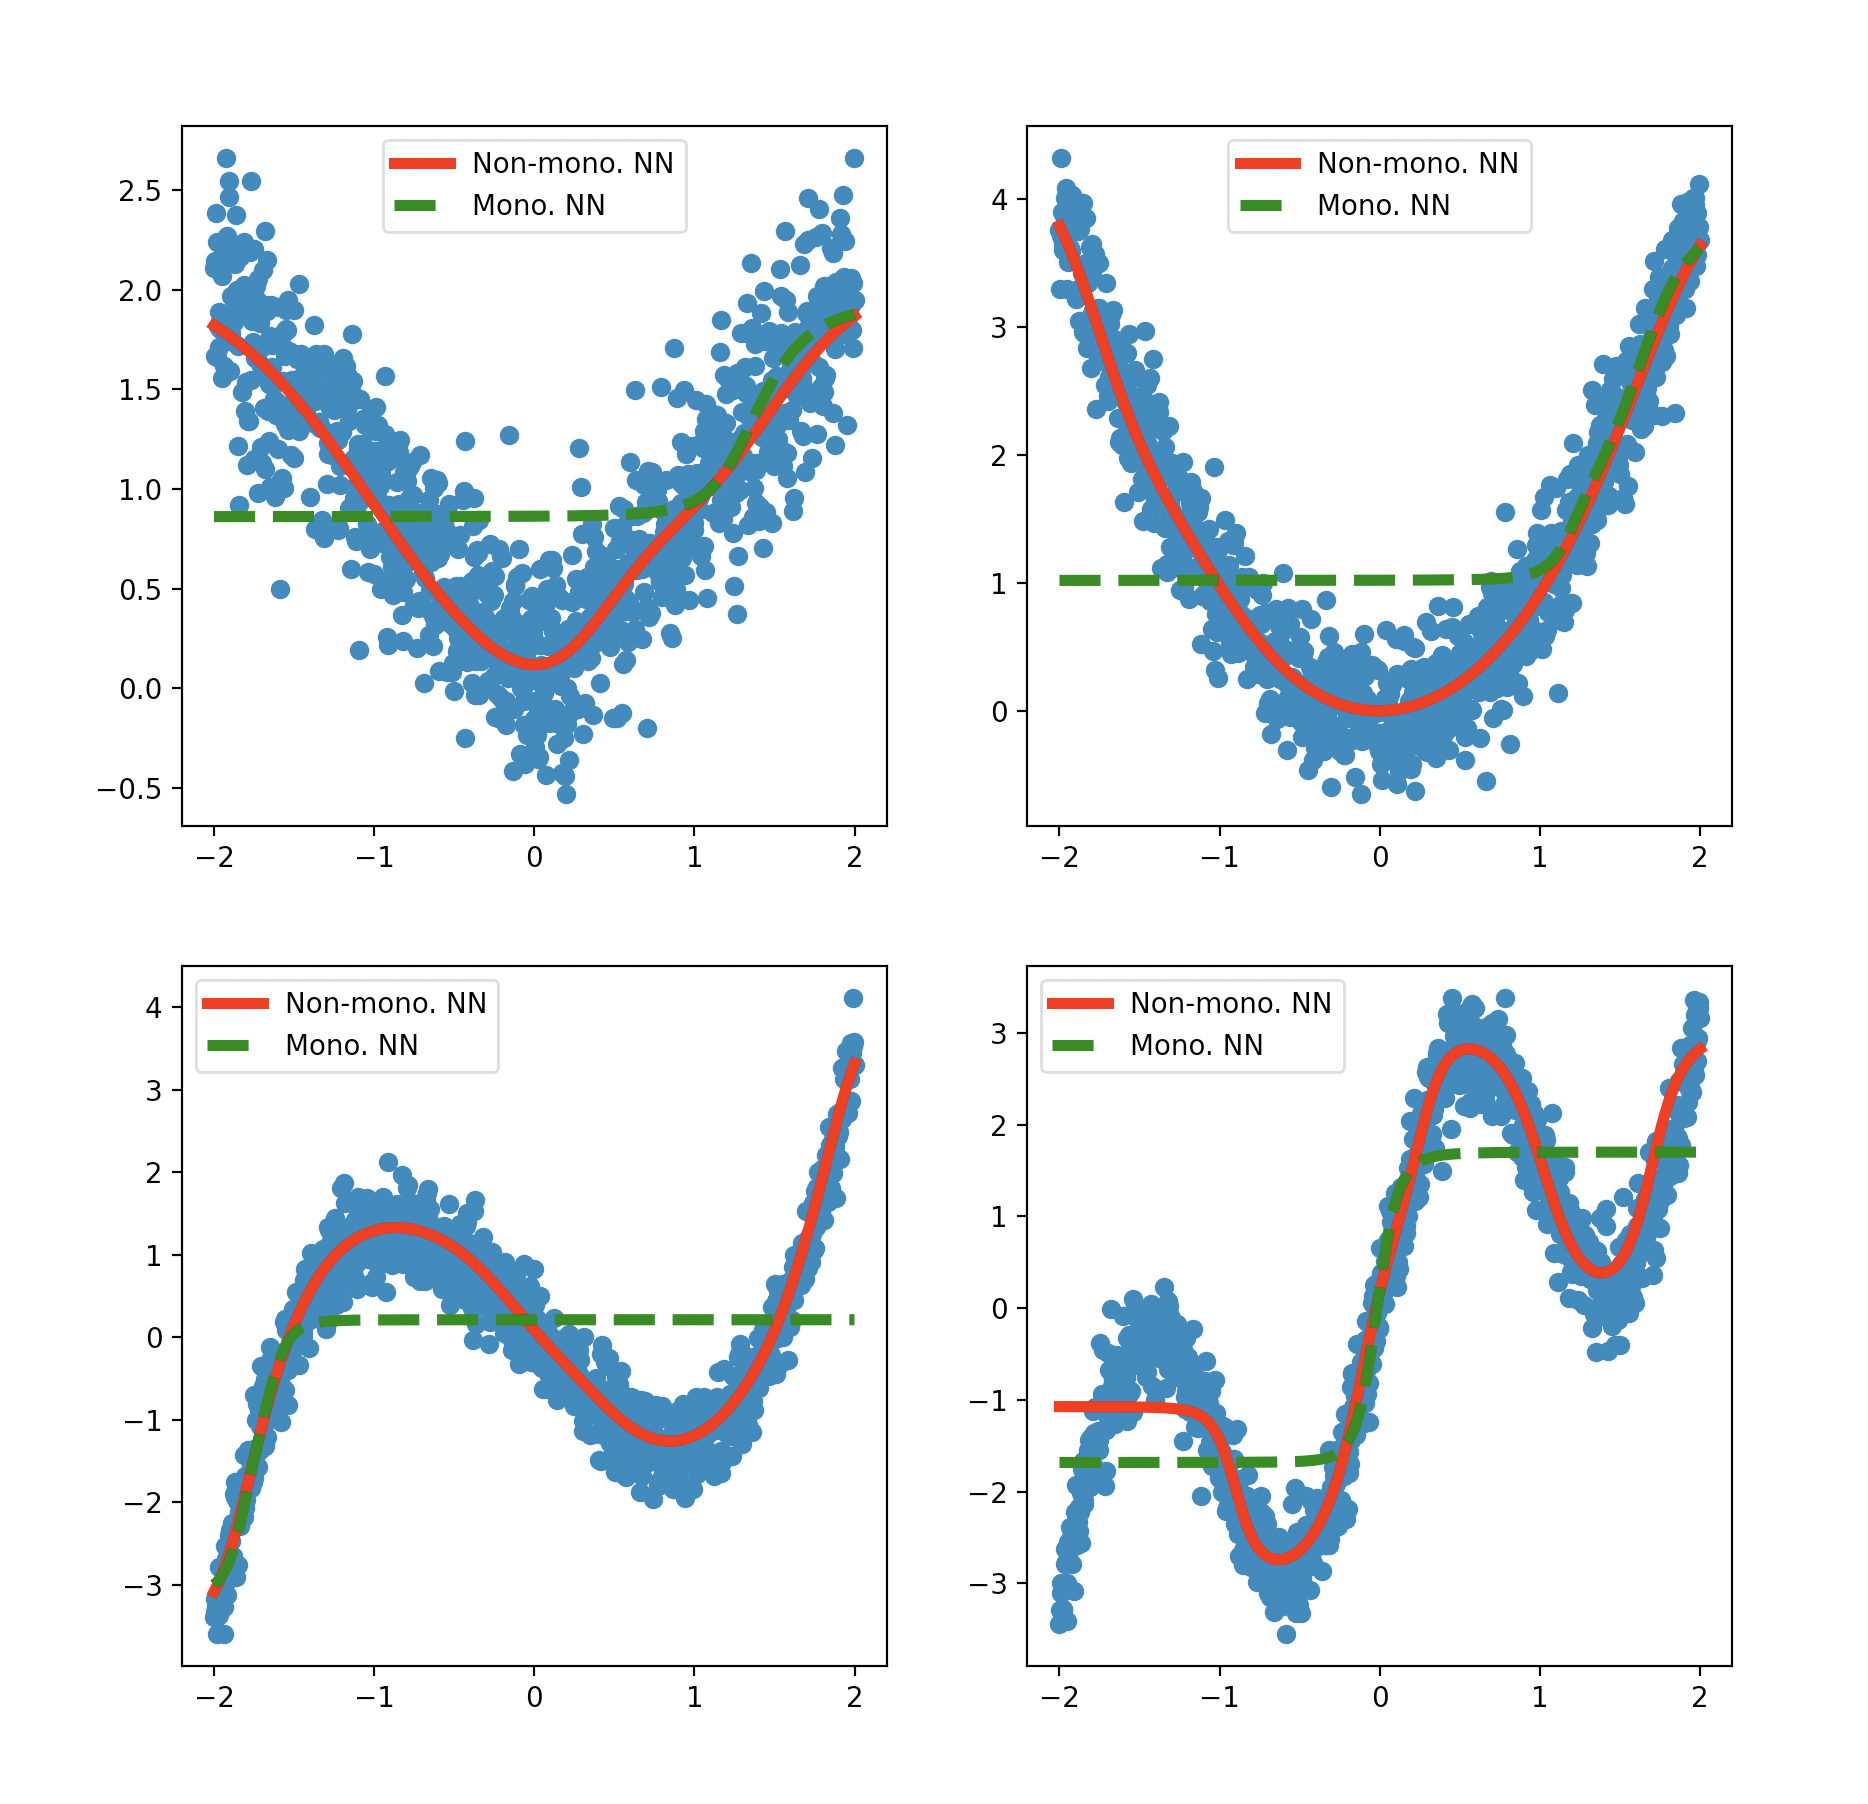
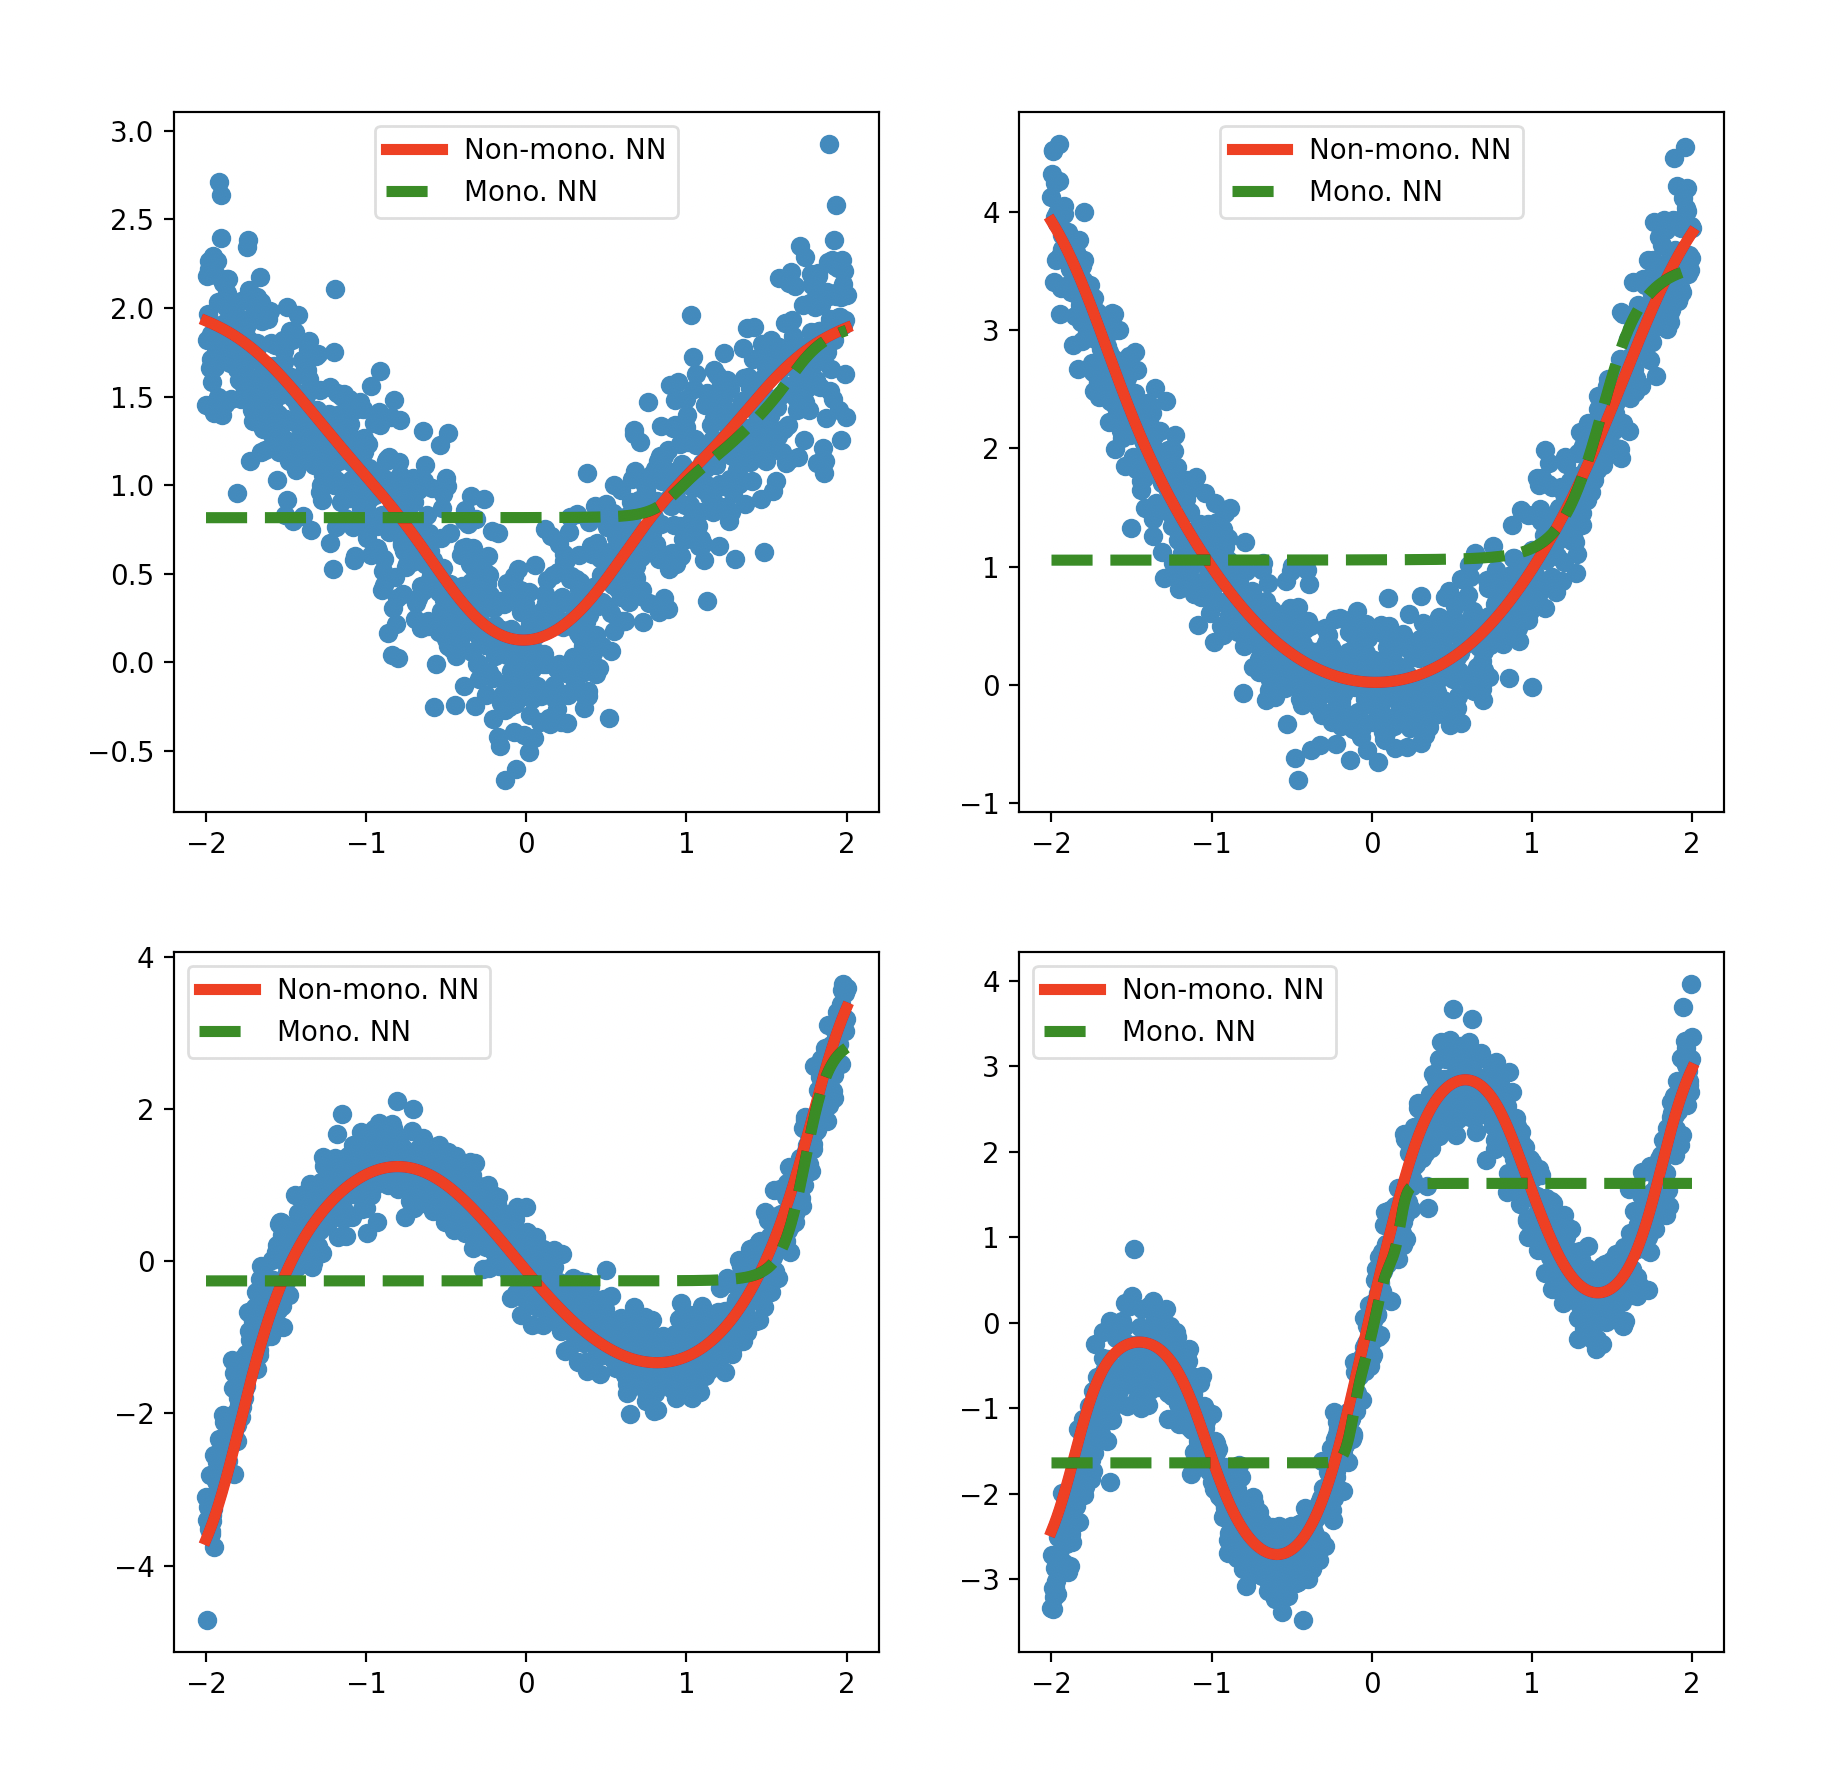
trained on residuals

diff --git a/MonotonicFairness/simulated_models.py b/MonotonicFairness/simulated_models.py
@@ -13,6 +13,9 @@ from lib.simulated_data import load_data
 from matplotlib import pyplot as plt
 import pickle as pk
 
+
+with_linear = True
+
 fig, ax = plt.subplots(2,2,figsize=(10,10))
 
 for fn in range(4):
@@ -26,6 +29,15 @@ for fn in range(4):
     Y_train = data['data_train'][:, data['Y_col']:data['Y_col']+1].astype(np.number)
     Y_test  = data['data_test' ][:, data['Y_col']:data['Y_col']+1].astype(np.number)
     
+    Y_train_orig = Y_train.copy()
+    Y_test_orig  = Y_test.copy()
+    beta = None
+    # i.e. train on the residuals
+    if with_linear:
+        beta = np.linalg.inv(X_train.T @ X_train) @ (X_train.T @ Y_train)
+        Y_train = Y_train - X_train @ beta
+        Y_test  = Y_test  - X_test @ beta
+  
     n, x_dim = X_train.shape
 
     # setup iterator
@@ -66,10 +78,13 @@ for fn in range(4):
     )
     
     n_epochs = 50
-   
+    if with_linear:
+        lin = " + Linear Function"
+    else:
+        lin = ""
     results = {
-        'Non-mono. NN': {'model': fnn, 'X': [], 'Y': [], 'Y_pred': [], 'marker': 'r'},
-        'Mono. NN': {'model': mnn, 'X': [], 'Y': [], 'Y_pred': [], 'marker': 'g--'}
+        'Non-mono. NN' + lin: {'model': fnn, 'X': [], 'Y': [], 'Y_pred': [], 'marker': 'r'},
+        'Mono. NN' + lin: {'model': mnn, 'X': [], 'Y': [], 'Y_pred': [], 'marker': 'g--'}
     }
     with tf.Session() as sess:
         # train each model
@@ -88,9 +103,12 @@ for fn in range(4):
             print(model)
             res = results[model]
             m = res['model']
-            sess.run(iterator.initializer, feed_dict={X_tf:X_test, Y_tf:Y_test})
+            sess.run(iterator.initializer, feed_dict={X_tf:X_test, Y_tf:Y_test_orig})
             for j in range(int(X_test.shape[0]/batch_size)+1):
                 X_test_batch, Y_test_batch, y_pred_batch = sess.run([m.X_tf,m.Y_tf,m.Yhat_tf])
+                # the true prediction includes linear
+                if with_linear:
+                    y_pred_batch = y_pred_batch + X_test_batch @ beta
                 res['X'].append(X_test_batch.reshape(-1,1))
                 res['Y'].append(Y_test_batch.reshape(-1,1))
                 res['Y_pred'].append(y_pred_batch.reshape(-1,1))

diff --git a/MonotonicFairness/README.md b/MonotonicFairness/README.md
@@ -6,3 +6,7 @@ We have modified this from the following repository: https://github.com/throwawa
 # UPDATED for simulated data
 
 ![Simulation](./data/results.png)
+
+# F\_linear + F\_Monotonic
+
+![Simulation with Linear](./data/results_linear_mono.png)
